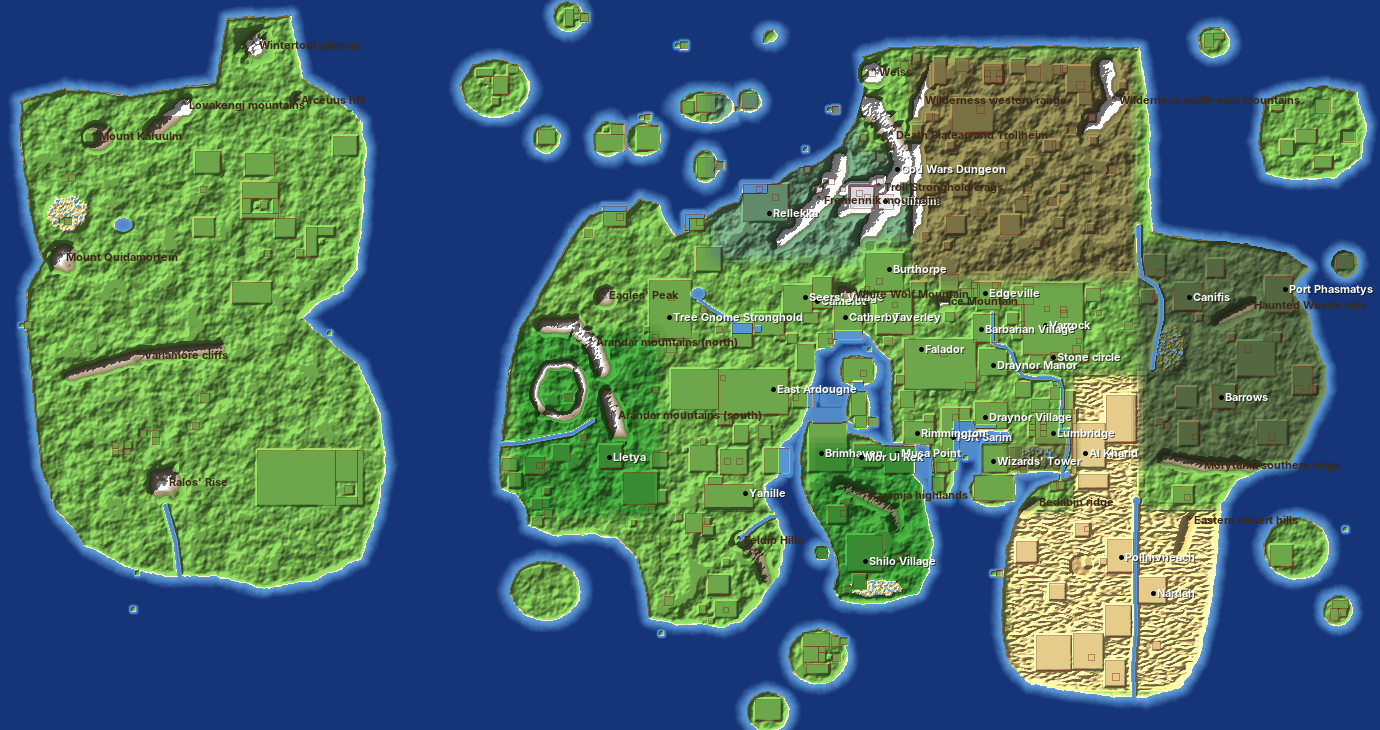
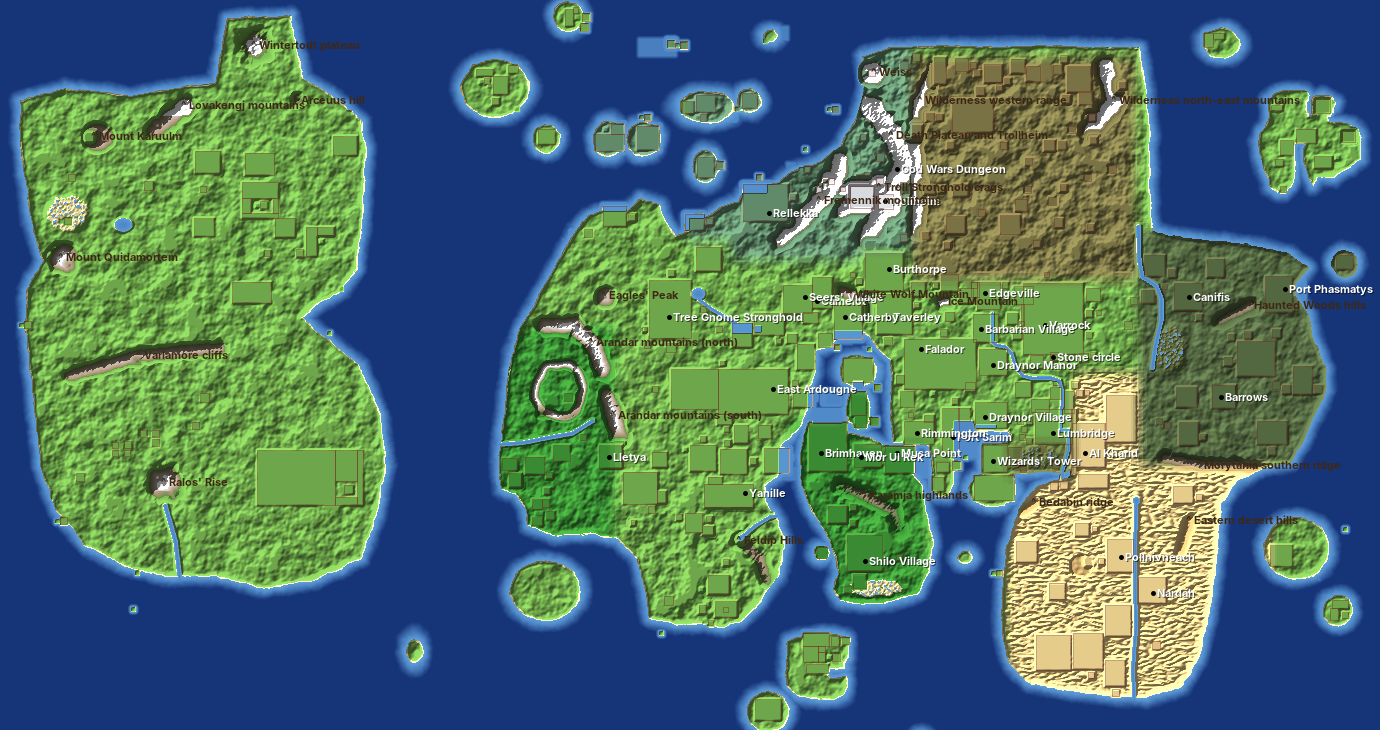
Lithkren from the OSRS map; refresh terrain preview and generated assets
Claude-Session: https://claude.ai/code/session_01RfWEHHvJdDGvqx7chzrVRf

diff --git a/src/main/java/com/runecraft/osrs/world/GielinorGeography.java b/src/main/java/com/runecraft/osrs/world/GielinorGeography.java
@@ -138,7 +138,7 @@ public final class GielinorGeography {
             new Ellipse("Harmony Island", 3795, 2861, 30, 30),
             new Ellipse("Mos Le'Harmless", 3712, 2985, 66, 62),
             new Ellipse("Dragontooth Island", 3808, 3555, 26, 26),
-            new Ellipse("Lithkren", 3548, 3998, 32, 30),
+            new Ellipse("Lithkren", 3563, 3995, 36, 30), // OSRS map: 3537-3600, 3965-4025
             new Ellipse("Miscellania", 2534, 3868, 54, 32),
             new Ellipse("Etceteria", 2618, 3880, 24, 24),
             new Ellipse("Waterbirth Island", 2530, 3748, 26, 32),
